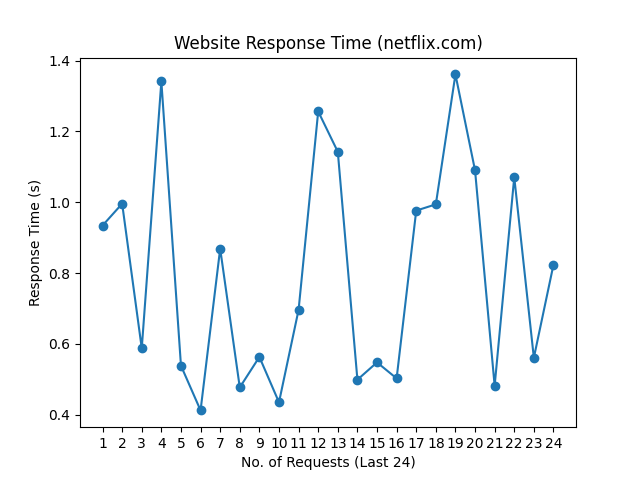
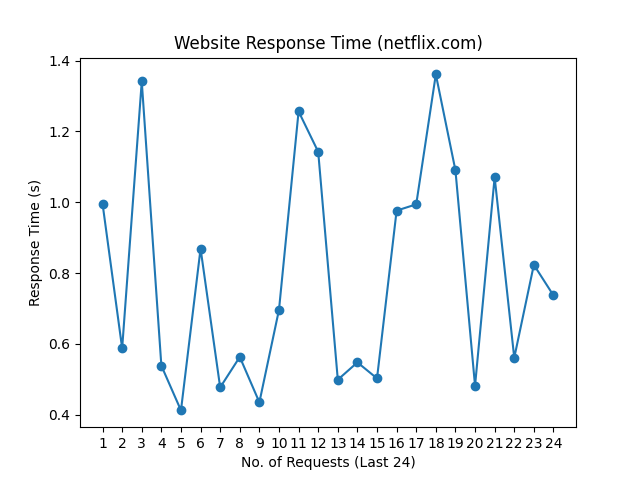
update README.md, history and graph

Changed region(s): [[0.1562, 0.125, 0.875, 0.875]]

diff --git a/README.md b/README.md
@@ -1,10 +1,10 @@
 # Web Monitoring
 
-Last Checked: 24/01/2024 09:05
+Last Checked: 25/01/2024 09:05
 
 | Website | Response Time (s) | Status | Avg Uptime (%) |
 |---------|-------------------|--------|----------------|
 | www.thiswebsiteisdown.net | 0 <br> <img src="graph/thiswebsiteisdown.net.png" alt="Graph" width="200" height="200">  | ❌ Down | 0.00 |
-| www.netflix.com | 0.823399 <br> <img src="graph/netflix.com.png" alt="Graph" width="200" height="200">  | ✅ Up | 100.00 |
-| www.google.com | 0.087518 <br> <img src="graph/google.com.png" alt="Graph" width="200" height="200">  | ✅ Up | 100.00 |
-| www.facebook.com | 0.223774 <br> <img src="graph/facebook.com.png" alt="Graph" width="200" height="200">  | ✅ Up | 100.00 |
+| www.netflix.com | 0.736923 <br> <img src="graph/netflix.com.png" alt="Graph" width="200" height="200">  | ✅ Up | 100.00 |
+| www.google.com | 0.084295 <br> <img src="graph/google.com.png" alt="Graph" width="200" height="200">  | ✅ Up | 100.00 |
+| www.facebook.com | 0.229501 <br> <img src="graph/facebook.com.png" alt="Graph" width="200" height="200">  | ✅ Up | 100.00 |
